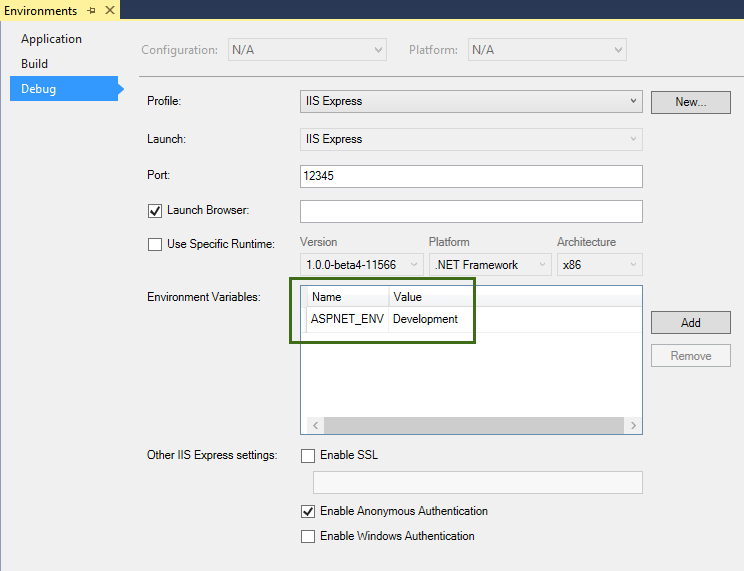
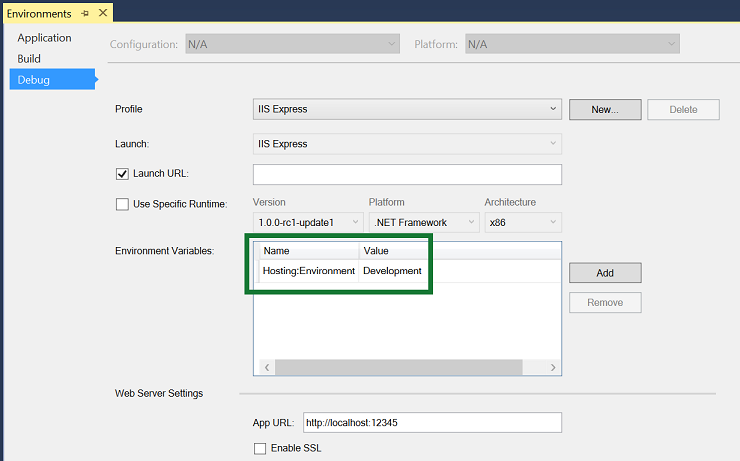
Removed mention to ASPNET_ENV
Addresses #872

diff --git a/aspnet/fundamentals/environments.rst b/aspnet/fundamentals/environments.rst
@@ -15,7 +15,7 @@ In this article:
 Development, Staging, Production
 --------------------------------
 
-ASP.NET 5 references a particular `environment variable <https://github.com/aspnet/Home/wiki/Environment-Variables>`_, ``ASPNET_ENV`` (or ``Hosting:Environment``), to describe the environment the application is currently running in. This variable can be set to any value you like, but three values are used by convention: ``Development``, ``Staging``, and ``Production``. You will find these values used in the samples and templates provided with ASP.NET 5.
+ASP.NET 5 references a particular `environment variable <https://github.com/aspnet/Home/wiki/Environment-Variables>`_, ``Hosting:Environment``, to describe the environment the application is currently running in. This variable can be set to any value you like, but three values are used by convention: ``Development``, ``Staging``, and ``Production``. You will find these values used in the samples and templates provided with ASP.NET 5.
 
 The current environment setting can be detected programmatically from within your application. In addition, you can use the Environment :doc:`Tag Helper </mvc/views/tag-helpers/index>` to include certain sections in your :doc:`view </mvc/views/index>` based on the current application environment.
 
@@ -28,7 +28,7 @@ This should be the environment used when developing an application. When using V
 
 .. image:: environments/_static/project-properties-debug.png
 
-When you modify the default settings created with the project, your changes are persisted in *launchSettings.json* in the ``Properties`` folder. This file holds settings specific to each profile Visual Studio is configured to use to launch the application, including any environment variables that should be used. (Debug profiles are discussed in more detail in :doc:`servers`). After modifying the ``ASPNET_ENV`` (or ``Hosting:Environment``) variable in the ``web`` profile to be set to ``Staging``, the ``launchSettings.json`` file in our sample project is shown below:
+When you modify the default settings created with the project, your changes are persisted in *launchSettings.json* in the ``Properties`` folder. This file holds settings specific to each profile Visual Studio is configured to use to launch the application, including any environment variables that should be used. (Debug profiles are discussed in more detail in :doc:`servers`). After modifying the ``Hosting:Environment`` variable in the ``web`` profile to be set to ``Staging``, the ``launchSettings.json`` file in our sample project is shown below:
 
 .. literalinclude:: environments/sample/src/Environments/Properties/launchSettings.json
 	:language: javascript
@@ -78,7 +78,7 @@ Startup conventions
 
 ASP.NET 5 supports a convention-based approach to configuring an application's startup based on the current environment. You can also programmatically control how your application behaves according to which environment it is in, allowing you to create and manage your own conventions.
 
-When an ASP.NET 5 application starts, the ``Startup`` class is used to bootstrap the application, load its configuration settings, etc. (:doc:`learn more about ASP.NET startup <startup>`). However, if a class exists named ``Startup{EnvironmentName}`` (for example ``StartupDevelopment``), and the ``ASPNET_ENV`` environment variable matches that name, then that ``Startup`` class is used instead. Thus, you could configure ``Startup`` for development, but have a separate ``StartupProduction`` that would be used when the app is run in production. Or vice versa.
+When an ASP.NET 5 application starts, the ``Startup`` class is used to bootstrap the application, load its configuration settings, etc. (:doc:`learn more about ASP.NET startup <startup>`). However, if a class exists named ``Startup{EnvironmentName}`` (for example ``StartupDevelopment``), and the ``Hosting:Environment`` environment variable matches that name, then that ``Startup`` class is used instead. Thus, you could configure ``Startup`` for development, but have a separate ``StartupProduction`` that would be used when the app is run in production. Or vice versa.
 
 The following ``StartupDevelopment`` file from this article's sample project is run when the application is set to run in a Development environment:
 
@@ -96,7 +96,7 @@ Run the application in development, and a welcome screen is displayed. The sampl
 	:linenos:
 	:emphasize-lines: 6
 
-When the application is run with ``ASPNET_ENV`` set to ``Staging``, the ``StartupStaging`` class is used, and the application will simply display a string stating it's running in a staging environment. The application's default ``Startup`` class will only run when the environment is not set to either ``Development`` or ``Staging`` (presumably, this would be when it is set to ``Production``, but you're not limited to only these three options. Also note that if no environment is set, the default ``Startup`` will run).
+When the application is run with ``Hosting:Environment`` set to ``Staging``, the ``StartupStaging`` class is used, and the application will simply display a string stating it's running in a staging environment. The application's default ``Startup`` class will only run when the environment is not set to either ``Development`` or ``Staging`` (presumably, this would be when it is set to ``Production``, but you're not limited to only these three options. Also note that if no environment is set, the default ``Startup`` will run).
 
 In addition to using an entirely separate ``Startup`` class based on the current environment, you can also make adjustments to how the application is configured within a ``Startup`` class. The ``Configure()`` and ``ConfigureServices()`` methods support environment-specific versions similar to the ``Startup`` class itself, of the form ``Configure[Environment]()`` and ``Configure[Environment]Services()``. If you define a method ``ConfigureDevelopment()`` it will be called instead of ``Configure()`` when the environment is set to development. Likewise, ``ConfigureDevelopmentServices()`` would be called instead of ``ConfigureServices()`` in the same environment.
 

diff --git a/aspnet/client-side/using-gulp.rst b/aspnet/client-side/using-gulp.rst
@@ -218,7 +218,7 @@ IntelliSense provides code completion, parameter descriptions, and other feature
 Development, Staging, and Production Environments
 -------------------------------------------------
 
-When Gulp is used to optimize client-side files for staging and production, the processed files are saved to a local staging and production location. The *_Layout.cshtml* file uses the **environment** tag helper to provide two different versions of CSS files. One version of CSS files is for development and the other version is optimized for both staging and production. In Visual Studio 2015, when you change the **ASPNET_ENV** environment variable to ``Production``, Visual Studio will build the Web app and link to the minimized CSS files. The following markup shows the **environment** tag helpers containing link tags to the ``Development`` CSS files and the minified ``Staging, Production`` CSS files.
+When Gulp is used to optimize client-side files for staging and production, the processed files are saved to a local staging and production location. The *_Layout.cshtml* file uses the **environment** tag helper to provide two different versions of CSS files. One version of CSS files is for development and the other version is optimized for both staging and production. In Visual Studio 2015, when you change the **Hosting:Environment** environment variable to ``Production``, Visual Studio will build the Web app and link to the minimized CSS files. The following markup shows the **environment** tag helpers containing link tags to the ``Development`` CSS files and the minified ``Staging, Production`` CSS files.
 
 .. code-block:: html
 
@@ -236,7 +236,7 @@ When Gulp is used to optimize client-side files for staging and production, the 
 Switching Between Environments
 ------------------------------
 
-To switch between compiling for different environments, modify the **ASPNET_ENV** environment variable's value.
+To switch between compiling for different environments, modify the **Hosting:Environment** environment variable's value.
 
 1.	In **Task Runner Explorer**, verify that the **min** task has been set to run **Before Build**.
 2.	In **Solution Explorer**, right-click the project name and select **Properties**.
@@ -244,14 +244,14 @@ To switch between compiling for different environments, modify the **ASPNET_ENV*
 	The property sheet for the Web app is displayed.
 	
 3.	Click the **Debug** tab.	
-4.	Set the value of the **ASPNET_ENV** environment variable to ``Production``.
+4.	Set the value of the **Hosting:Environment** environment variable to ``Production``.
 5.	Press **F5** to run the application in a browser.
 6.	In the browser window, right-click the page and select **View Source** to view the HTML for the page.
 
 	Notice that the stylesheet links point to the minified CSS files.
 
 7.	Close the browser to stop the Web app.
-8.	In Visual Studio, return to the property sheet for the Web app and change the **ASPNET_ENV** environment variable back to ``Development``.
+8.	In Visual Studio, return to the property sheet for the Web app and change the **Hosting:Environment** environment variable back to ``Development``.
 9.	Press **F5** to run the application in a browser again.
 10.	In the browser window, right-click the page and select **View Source** to see the HTML for the page.
 

diff --git a/aspnet/fundamentals/middleware.rst b/aspnet/fundamentals/middleware.rst
@@ -173,7 +173,7 @@ Using the extension method and associated middleware class, the ``Configure`` me
 
 Although ``RequestLoggerMiddleware`` requires an ``ILoggerFactory`` parameter in its constructor, neither the ``Startup`` class nor the ``UseRequestLogger`` extension method need to explicitly supply it. Instead, it is automatically provided through dependency injection performed within ``UseMiddleware<T>``.
 
-Testing the middleware (by setting the ``ASPNET_ENV`` environment variable to ``LogMiddleware``) should result in output like the following (when using WebListener):
+Testing the middleware (by setting the ``Hosting:Environment`` environment variable to ``LogMiddleware``) should result in output like the following (when using WebListener):
 
 .. image:: middleware/_static/console-logmiddleware.png
 

diff --git a/aspnet/publishing/linuxproduction.rst b/aspnet/publishing/linuxproduction.rst
@@ -140,7 +140,7 @@ To have supervisor monitor our application, we will add a file to the ``/etc/sup
     autorestart=true
     stderr_logfile=/var/log/hellomvc.err.log
     stdout_logfile=/var/log/hellomvc.out.log
-    environment=ASPNET_ENV=Production
+    environment=Hosting:Environment=Production
     user=www-data
     stopsignal=INT
 

diff --git a/aspnet/fundamentals/diagnostics.rst b/aspnet/fundamentals/diagnostics.rst
@@ -8,7 +8,7 @@ ASP.NET 5 includes a number of new features that can assist with diagnosing prob
 .. contents:: Sections
 	:local:
 	:depth: 1
-	
+
 `Browse or download samples on GitHub <https://github.com/aspnet/Docs/tree/master/aspnet/fundamentals/diagnostics/sample>`_.
 
 The runtime info page
